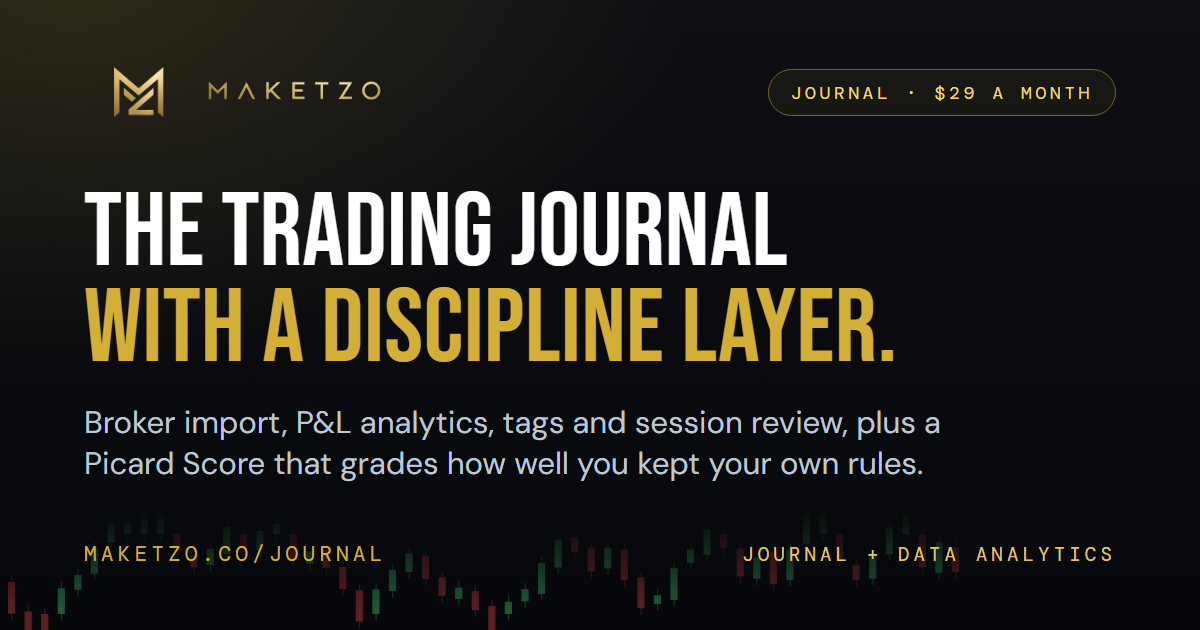
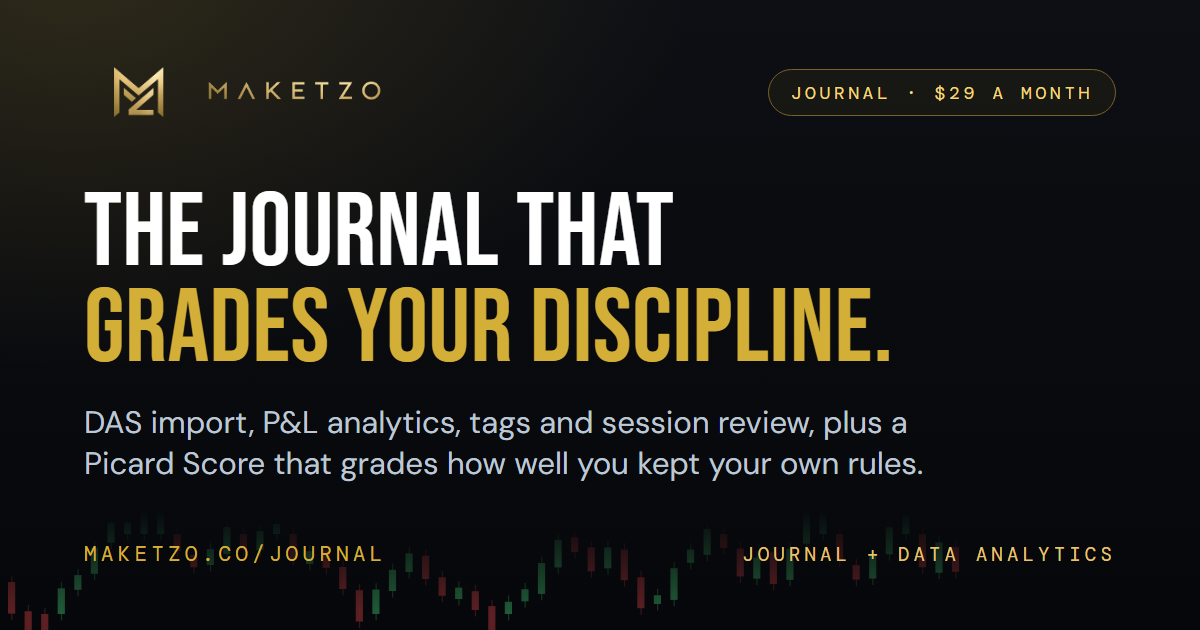
/journal: MAKETZO has a journal, it is not a trading journal
Ed's standing rule, and the page now competes with /trading-journal for that search. The
Google headline, description, share text, structured data, page headline, comparison
heading and link preview card no longer call MAKETZO a trading journal. The card said
Broker import; MAKETZO imports from DAS only. The two descriptions drop "they don't have":
TradeZella's own site now claims real-time nudges.

Changed region(s): [[0.0617, 0.4524, 0.74, 0.573], [0.185, 0.3016, 0.6783, 0.4222], [0.0617, 0.6333, 0.8017, 0.6937]]

diff --git a/journal.html b/journal.html
@@ -4,17 +4,17 @@
 <head>
 <meta charset="UTF-8">
 <meta name="viewport" content="width=device-width, initial-scale=1.0">
-<title>Trading Journal with a Live Discipline Layer · MAKETZO</title>
-<meta name="description" content="A serious trading journal: DAS import, P&amp;L analytics, tagging, session review, plus the live discipline layer TradeZella and TraderVue don't have.">
+<title>The Journal That Grades Your Discipline · MAKETZO</title>
+<meta name="description" content="MAKETZO's journal imports your DAS trades, reports your P&amp;L and grades your discipline on every trade, with coaching in real time while you trade.">
 <meta name="theme-color" content="#06070A">
-<meta property="og:title" content="MAKETZO: The Trading Journal That Also Enforces Discipline">
-<meta property="og:description" content="Same journal job as TradeZella and TraderVue, with real-time enforcement they don't have. 7-day free trial.">
+<meta property="og:title" content="MAKETZO: The Journal That Grades Your Discipline">
+<meta property="og:description" content="DAS import and reports, a grade for how well you kept your rules, and coaching in real time. 7-day free trial.">
 <meta property="og:url" content="https://maketzo.co/journal">
 <!-- Link preview card: generated by tools/link-preview-cards in the dev repo. Edit the copy there and re-render, never the PNG. -->
 <meta property="og:image" content="https://maketzo.co/assets/cards/journal.png?v=1">
 <meta property="og:image:width" content="1200">
 <meta property="og:image:height" content="630">
-<meta property="og:image:alt" content="MAKETZO Journal. The trading journal with a discipline layer. DAS import, analytics and a Picard Score.">
+<meta property="og:image:alt" content="MAKETZO Journal. The journal that grades your discipline. DAS import, analytics and a Picard Score.">
 <meta name="twitter:card" content="summary_large_image">
 <meta property="og:type" content="website">
 <link rel="canonical" href="https://maketzo.co/journal">
@@ -26,8 +26,8 @@
       "@type": "WebPage",
       "@id": "https://maketzo.co/journal#webpage",
       "url": "https://maketzo.co/journal",
-      "name": "Trading Journal with a Live Discipline Layer",
-      "description": "A serious trading journal: DAS import, P&L analytics, tagging, session review, plus the live discipline layer TradeZella and TraderVue don't have.",
+      "name": "The Journal That Grades Your Discipline",
+      "description": "MAKETZO's journal imports your DAS trades, reports your P&L and grades your discipline on every trade, with coaching in real time while you trade.",
       "inLanguage": "en-US",
       "isPartOf": {
         "@id": "https://maketzo.co/#website"
@@ -636,7 +636,7 @@ footer { background: var(--mk-obsidian-950); border-top: var(--mk-border-hairlin
   <div class="page-hero-inner">
     <div class="page-hero-text">
       <p class="page-hero-eyebrow">02 &middot; JOURNAL + DATA ANALYTICS</p>
-      <h1 class="page-hero-title">The trading journal that <em>also stops you from breaking your rules.</em></h1>
+      <h1 class="page-hero-title">The journal that <em>also keeps you to your rules.</em></h1>
       <p class="page-hero-sub">Every trading journal does an excellent job of documenting the past: importing executions, tracking P&amp;L, tagging setups, and helping you review what worked and what didn't. That analysis is invaluable, but by the time you're studying the trade, the decision has already been made.</p>
       <p class="page-hero-sub">MAKETZO adds what traditional journals are missing: a discipline layer that works alongside your journal in real time. It helps you stay aligned with your rules while the market is open, so your best trading decisions are supported not just in hindsight, but in the moments that matter most.</p>
       <div class="page-hero-cta">
@@ -1015,7 +1015,7 @@ footer { background: var(--mk-obsidian-950); border-top: var(--mk-border-hairlin
 <section class="section" id="compare">
   <div class="section-inner">
     <p class="section-eyebrow reveal">HOW WE COMPARE</p>
-    <h2 class="section-title reveal">Five trading journals. <em>One that also enforces discipline.</em></h2>
+    <h2 class="section-title reveal">Four trading journals. <em>One discipline system with a journal built in.</em></h2>
     <p class="section-sub reveal">If you're comparing journals side by side, here's the honest read. We name the category leaders directly so you can verify each claim. <strong>The journal columns are parity. Live enforcement is ours alone.</strong></p>
 
     <div class="compare-wrap reveal">
